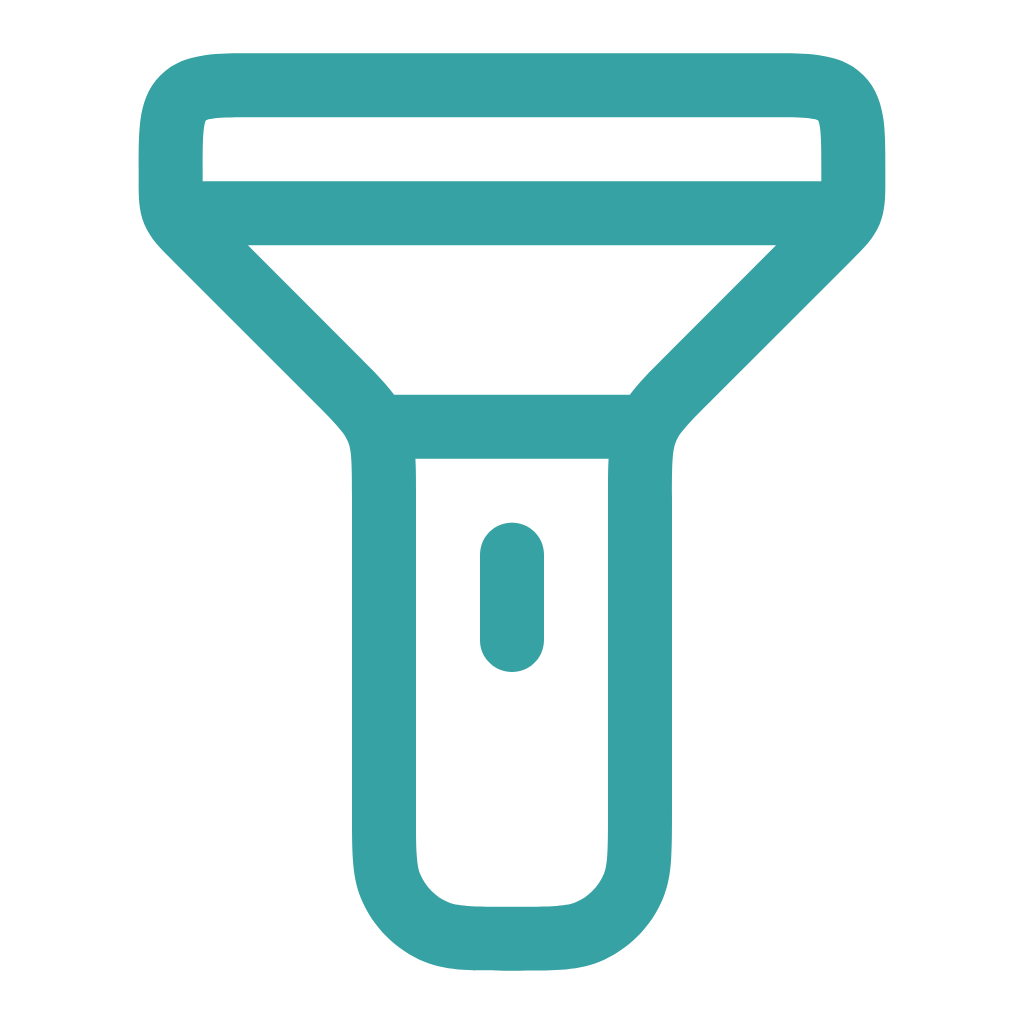
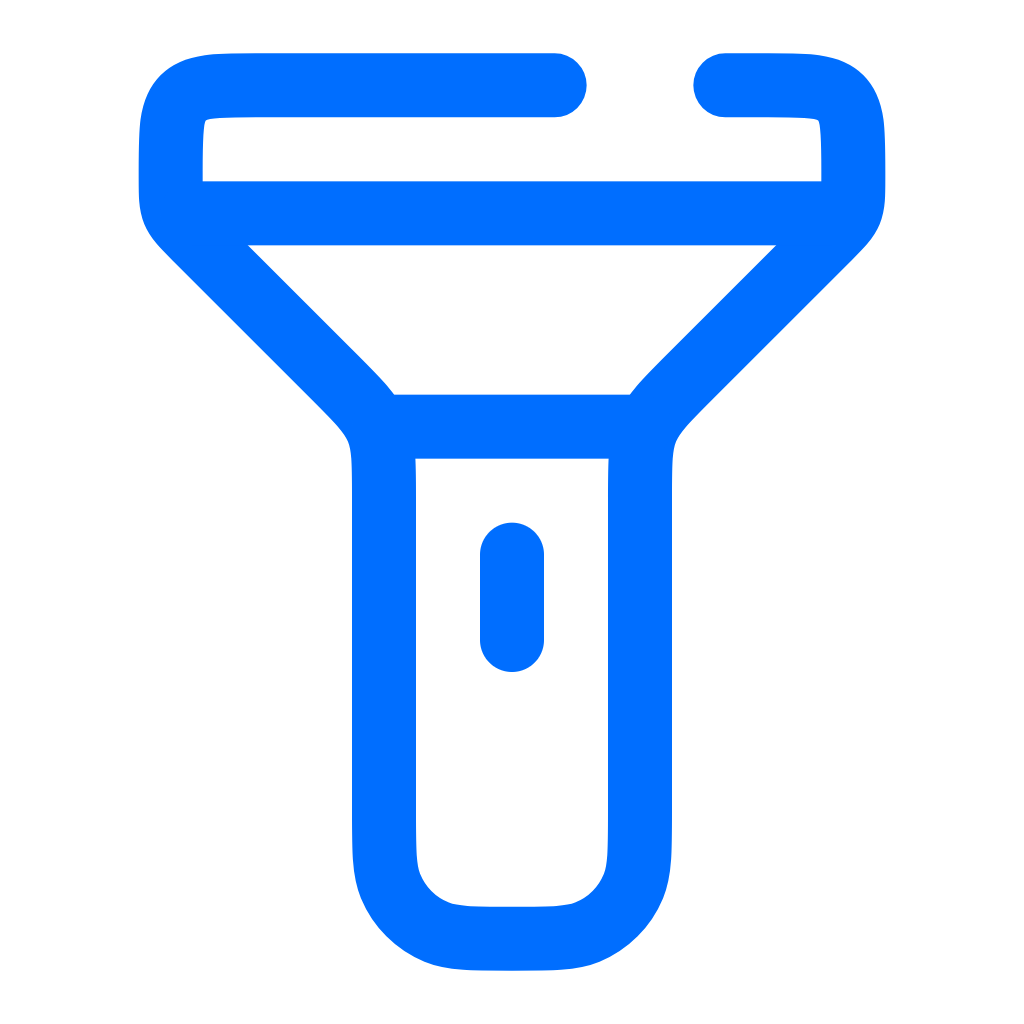
Updated UI

Changed region(s): [[0.125, 0.0312, 0.875, 0.9688], [0.4688, 0.5, 0.5312, 0.6562]]

diff --git a/app/home.jsx b/app/home.jsx
@@ -125,6 +125,7 @@ const predictImage = async (uri) => {
     setHealthTips("");
     setOverlayUri(null);
     setClassMasks([]);
+    setDetections([]);
   };
 
   useEffect(() => {
@@ -239,7 +240,7 @@ const generatePDF = async (imageUri, overlayUri, detections) => {
         </TouchableOpacity>
         <View className="flex-row justify-center items-center absolute w-full h-full">
           <Image source={icons.logoOnly} className="w-10 h-10" resizeMode="contain" />
-          <Text className="text-secondary-100 font-psemibold text-md ml-1 mt-1">Scanner</Text>
+          <Text className="text-secondary-100 font-psemibold text-md ml-1 mt-1">Oral Scanner</Text>
         </View>
       </View>
 
@@ -248,7 +249,17 @@ const generatePDF = async (imageUri, overlayUri, detections) => {
         {isCameraActive ? (
           // 📸 Camera View
           <View className="w-[90%] flex-1 rounded-xl items-center justify-evenly">
-            <View className="items-center justify-center">
+            <View className="w-full items-center justify-center">
+
+            <View className="w-full h-10 justify-center items-end mb-1">
+              <TouchableOpacity 
+                onPress={() => setIsCameraActive(false)}
+                className="border py-1 px-2 rounded-full items-center justify-center"
+                >
+                <Text className="text-md font-pmedium text-gray-500">Cancel</Text>
+              </TouchableOpacity>
+            </View>
+
               <View className="">
                 <CameraView
                   className="w-80 h-80 rounded-md"
@@ -339,32 +350,32 @@ const generatePDF = async (imageUri, overlayUri, detections) => {
                         <View className="flex items-start justify-center">
 
                           <View className="flex-row items-center justify-center mb-1">
-                            <View className="h-1.5 w-3 bg-[#0000ff] mr-1 rounded-full" />
+                            <View className="h-1.5 w-3 bg-[#FF0000] mr-1 rounded-full" />
                             <Text className="text-xs font-pregular">Calculus</Text>
                           </View>
 
                           <View className="flex-row items-center justify-center mb-1">
-                            <View className="h-1.5 w-3 bg-[#00ff00] mr-1 rounded-full" />
+                            <View className="h-1.5 w-3 bg-[#00FF00] mr-1 rounded-full" />
                             <Text className="text-xs font-pregular">Caries</Text>
                           </View>
 
                           <View className="flex-row items-center justify-center mb-1">
-                            <View className="h-1.5 w-3 bg-[#ff0000] mr-1 rounded-full" />
+                            <View className="h-1.5 w-3 bg-[#0000FF] mr-1 rounded-full" />
                             <Text className="text-xs font-pregular">Gingivitis</Text>
                           </View>
 
                           <View className="flex-row items-center justify-center mb-1">
-                            <View className="h-1.5 w-3 bg-[#ffff00] mr-1 rounded-full" />
+                            <View className="h-1.5 w-3 bg-[#FFFF00] mr-1 rounded-full" />
                             <Text className="text-xs font-pregular">Hypodontia</Text>
                           </View>
 
-                                              <View className="flex-row items-center justify-center mb-1">
-                            <View className="h-1.5 w-3 bg-[#ff00ff] mr-1 rounded-full" />
+                          <View className="flex-row items-center justify-center mb-1">
+                            <View className="h-1.5 w-3 bg-[#FF00FF] mr-1 rounded-full" />
                             <Text className="text-xs font-pregular">Tooth-Discoloration</Text>
                           </View>
 
                           <View className="flex-row items-center justify-center mb-1">
-                            <View className="h-1.5 w-3 bg-[#00ffff] mr-1 rounded-full" />
+                            <View className="h-1.5 w-3 bg-[#00FFFF] mr-1 rounded-full" />
                             <Text className="text-xs font-pregular">Mouth Ulcer</Text>
                           </View>
                           
@@ -429,7 +440,7 @@ const generatePDF = async (imageUri, overlayUri, detections) => {
   <View className="bg-gray-100/40 rounded-xl p-4 w-full mt-4">
     {detections.map((d, idx) => (
       <View key={idx} className="mb-4">
-        <Text className="text-lg font-semibold text-secondary capitalize">Disease Name: {d.class}</Text>
+        <Text className="text-lg font-semibold text-secondary-100 capitalize">Disease Name: {d.class}</Text>
 
                 {/* 🔹 Confidence Level */}
         <Text className="text-md font-pmedium text-gray-700 mt-1 mb-1">
@@ -468,16 +479,16 @@ const generatePDF = async (imageUri, overlayUri, detections) => {
                 <View className="flex-row p-2 gap-2 py-7">
                   <TouchableOpacity
                     onPress={CaptureUploadNew}
-                    className="bg-white border-[2px] border-secondary-100 px-3 py-2 rounded-full flex-row items-center justify-center"
+                    className="bg-white border-[2px] border-secondary-300 px-3 py-2 rounded-full flex-row items-center justify-center"
                   >
                     <Image source={icons.camera} className="w-7 h-7" resizeMode="contain" />
-                    <Text className="text-secondary-100 font-psemibold ml-2 text-xs">New</Text>
+                    <Text className="text-secondary-300 font-psemibold ml-2 text-xs">New</Text>
                   </TouchableOpacity>
 
                     <TouchableOpacity
                       onPress={() => generatePDF(imageUri, overlayUri, detections)}
 
-                      className="bg-white border-[2px] border-secondary-100 px-3 py-2 rounded-full flex-row items-center justify-center"
+                      className="bg-white border-[2px] border-secondary-300 px-3 py-2 rounded-full flex-row items-center justify-center"
                     >
                       <Image source={icons.download} className="w-7 h-7" resizeMode="contain" />
                       <Text className="text-secondary-100 font-psemibold ml-2 text-xs">Download</Text>
@@ -489,7 +500,7 @@ const generatePDF = async (imageUri, overlayUri, detections) => {
           </ScrollView>
         )}
       </View>
-      <StatusBar backgroundColor="#36A2A4" style="dark" />
+      <StatusBar backgroundColor="#006eff" style="dark" />
     </SafeAreaView>
   );
 };

diff --git a/tailwind.config.js b/tailwind.config.js
@@ -9,10 +9,10 @@ module.exports = {
       colors: {
         primary: "#FFF",
         secondary: {
-          DEFAULT: "#36A2A4",
-          100: "#36A2A4",
+          DEFAULT: "#006eff",
+          100: "#006eff",
           200: "#FF8E01",
-          300: "#e38a00",
+          300: "#006eff",
           400: "#fcf2e3",
           500: "#fcb33f",
           600: "#fcb860"

diff --git a/app/intro.jsx b/app/intro.jsx
@@ -50,7 +50,7 @@ const intro = () => {
                 </View>
 
 
-            <StatusBar backgroundColor='#36A2A4' style='light' />
+            <StatusBar backgroundColor='#006eff' style='light' />
         </SafeAreaView>
     );
 }

diff --git a/app/main.jsx b/app/main.jsx
@@ -62,7 +62,7 @@ const main = () => {
         </View>
       </View>
 
-      <StatusBar backgroundColor='#36A2A4' style='light' />
+      <StatusBar backgroundColor='#006eff' style='light' />
     </SafeAreaView>
   )
 }
